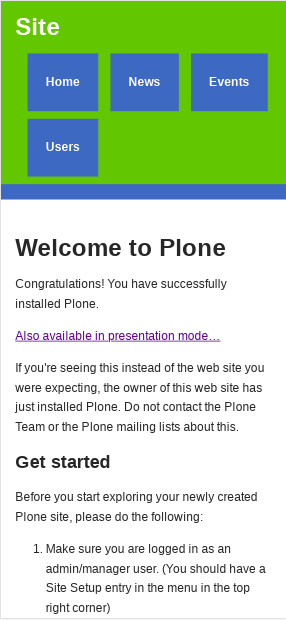
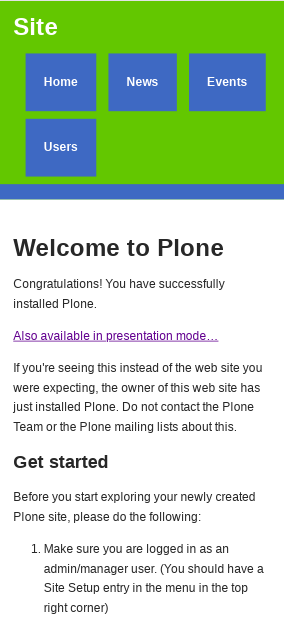
Updated Startup Responsive Initializr Theme section and images

diff --git a/docs/templates_theme/diazo/diazoframework/initializr_themes.rst b/docs/templates_theme/diazo/diazoframework/initializr_themes.rst
@@ -118,14 +118,14 @@ A *Startup Responsive Initializr Theme* implementations in Plone looks like the 
   :width: 55%
   :alt: Startup Responsive Initializr Theme
 
-  ``Startup Responsive Initializr`` Theme at Plone front-page.
+  ``Startup Responsive Initializr`` Theme.
 
 A demo using the ``Startup Responsive Initializr Theme`` add-on as a reduced view for Mobile device 
 look like the following:
 
 .. figure:: ../../../_static/diazotheme_startup_initializr_responsive_mobile.png
   :align: center
-  :width: 45%
+  :width: 30%
   :alt: Startup Responsive Initializr Theme at Mobile device
 
   ``Startup Responsive Initializr`` theme Demo at Mobile device.
@@ -135,7 +135,7 @@ look like the following:
 
 .. figure:: ../../../_static/diazotheme_startup_initializr_responsive_tablet.png
   :align: center
-  :width: 55%
+  :width: 45%
   :alt: Startup Responsive Initializr Theme at Tablet device
 
   ``Startup Responsive Initializr`` theme Demo at Tablet device.
